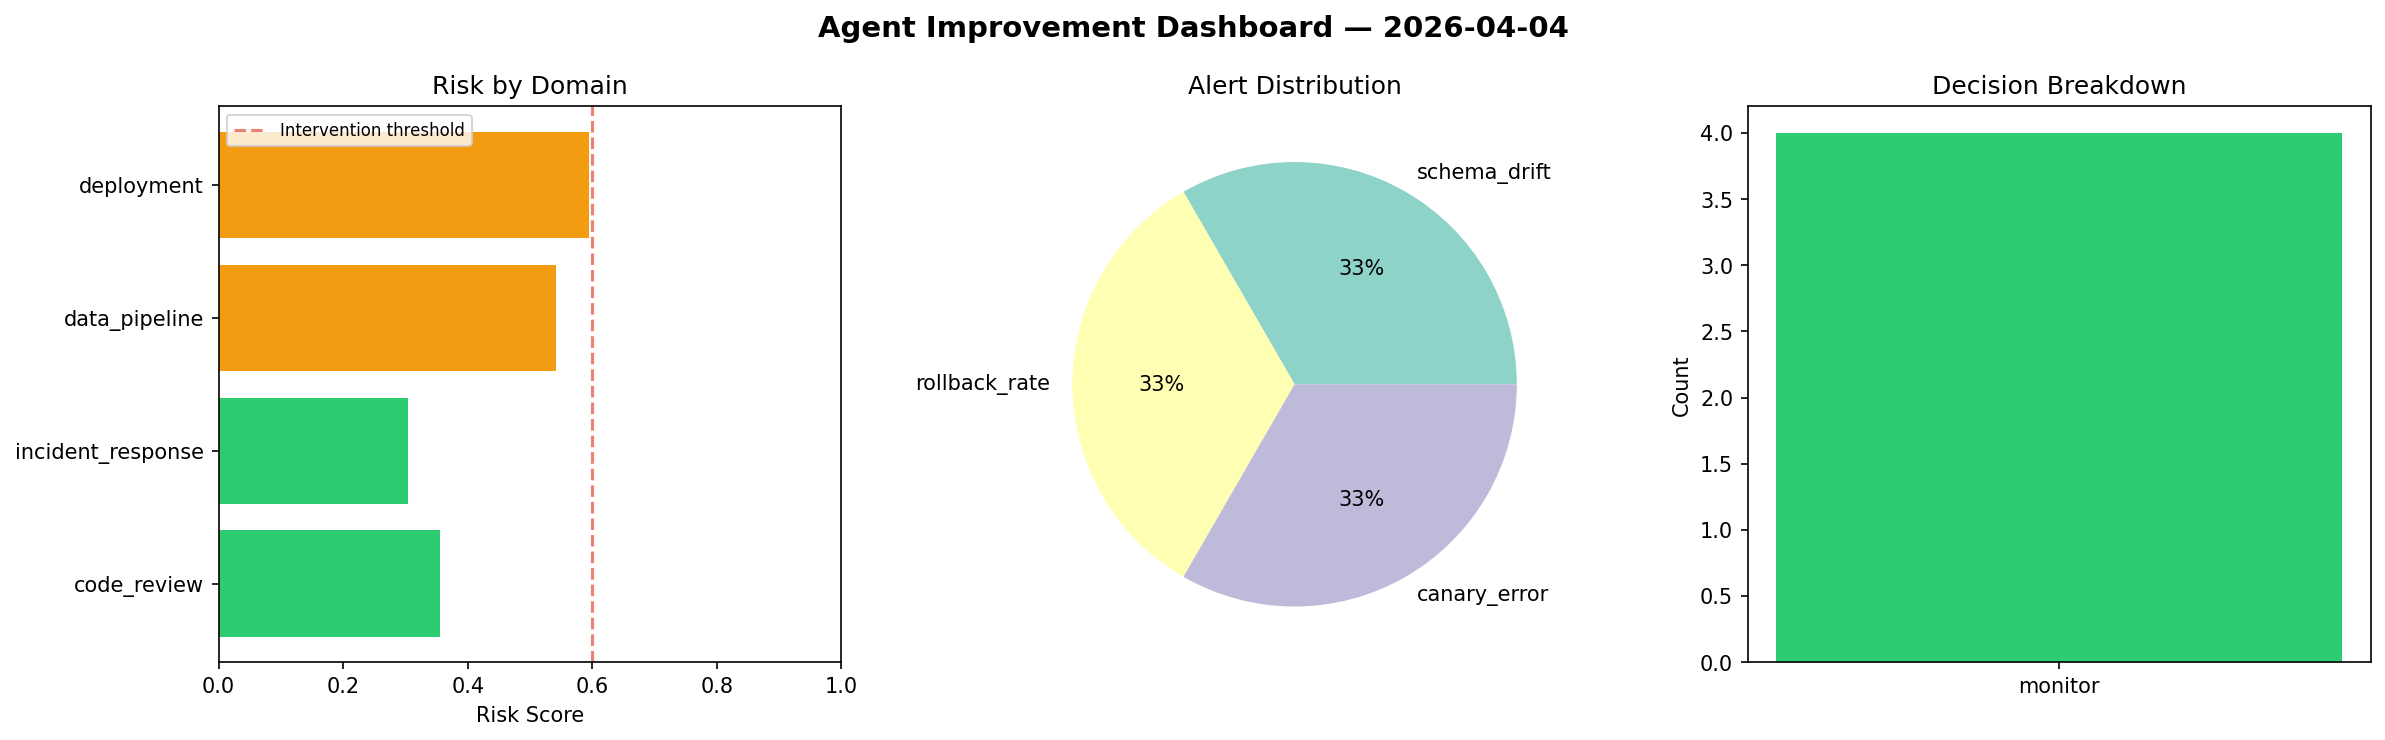
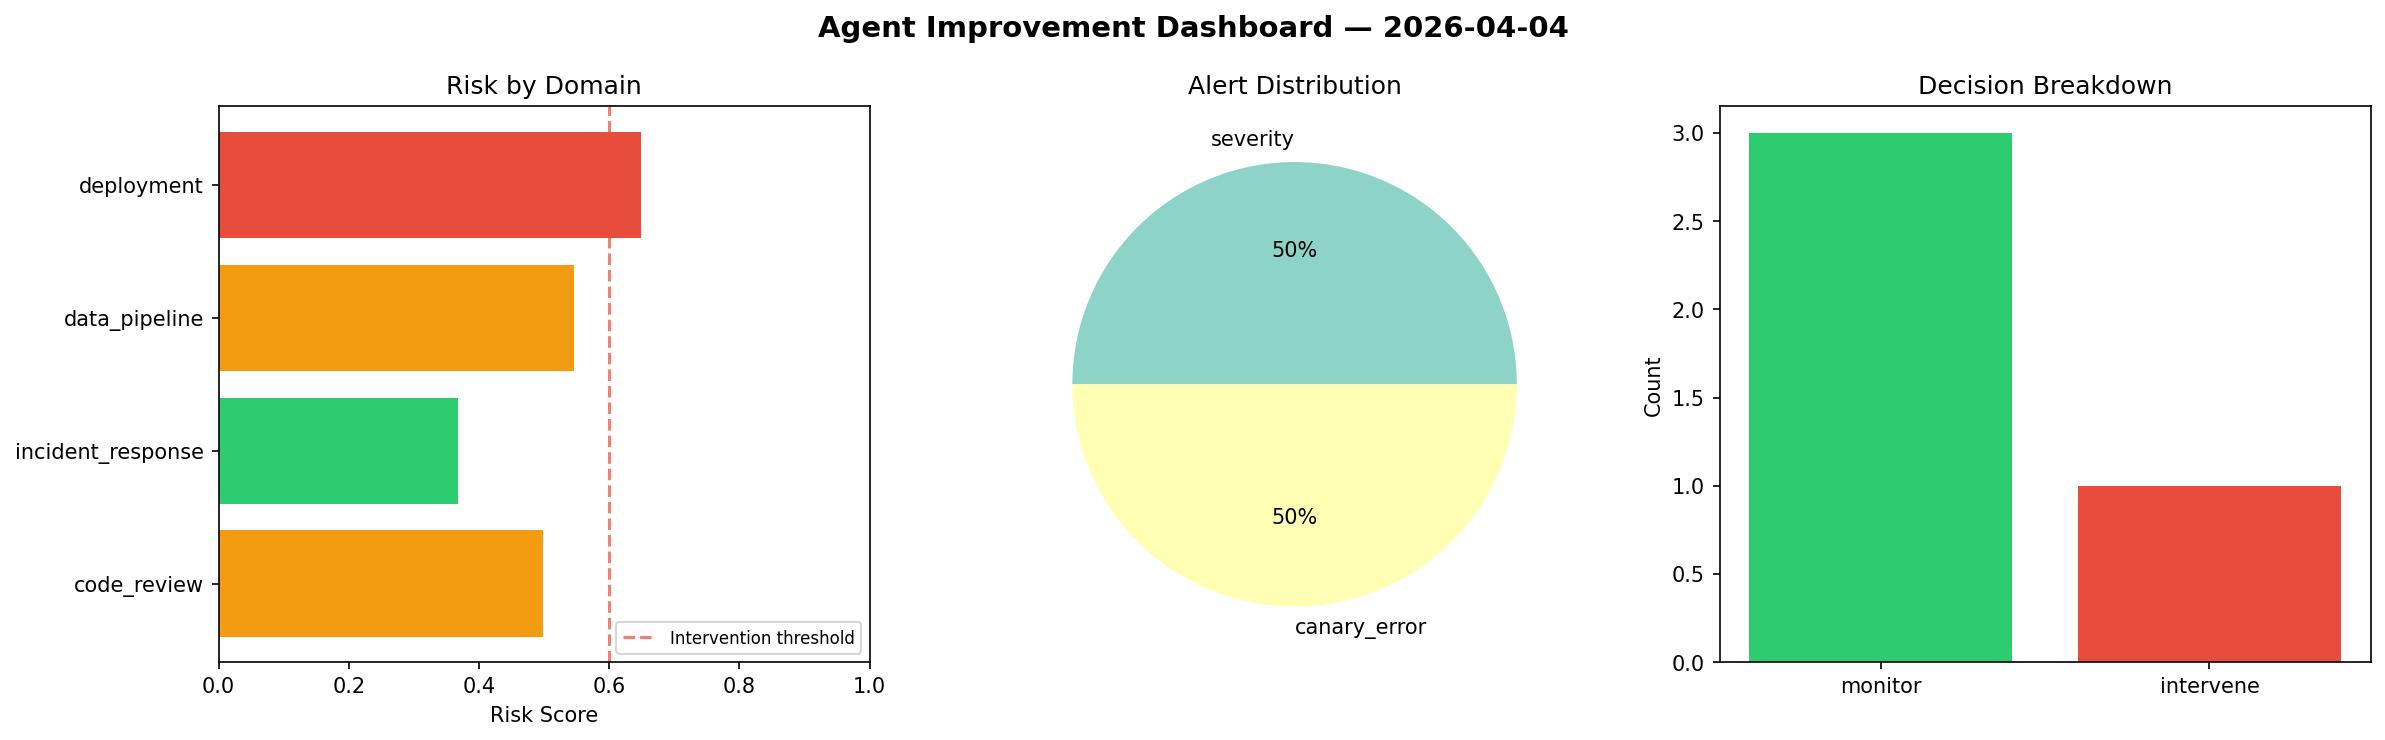
agent-improvement: daily cycle 2026-04-04T20:49

diff --git a/logs/2026-04-04.md b/logs/2026-04-04.md
@@ -1,6 +1,6 @@
 # Agent Improvement Report — 2026-04-04
 
-**Cycle ID:** `d2ad6b20` | **Avg Risk:** 0.4495 | **Interventions:** 0/4
+**Cycle ID:** `53321ec0` | **Avg Risk:** 0.5154 | **Interventions:** 1/4
 
 ![Dashboard](2026-04-04_dashboard.png)
 
@@ -10,18 +10,18 @@
 
 | Domain | Risk Score | Decision | Alerts |
 |--------|-----------|----------|--------|
-| code_review | 0.3563 | monitor | none |
-| incident_response | 0.3046 | monitor | none |
-| data_pipeline | 0.5416 | monitor | schema_drift |
-| deployment | 0.5953 | monitor | rollback_rate, canary_error |
+| code_review | 0.4989 | monitor | none |
+| incident_response | 0.368 | monitor | severity |
+| data_pipeline | 0.5464 | monitor | none |
+| deployment | 0.6484 | intervene | canary_error |
 
 ## Delta vs Yesterday
 
 | Domain | Today | Yesterday | Change |
 |--------|-------|-----------|--------|
-| code_review | 0.3563 | 0.4834 | 📉 -26.3% |
-| incident_response | 0.3046 | 0.4126 | 📉 -26.2% |
-| data_pipeline | 0.5416 | 0.6645 | 📉 -18.5% |
-| deployment | 0.5953 | 0.4245 | 📈 40.2% |
+| code_review | 0.4989 | 0.4834 | 📈 3.2% |
+| incident_response | 0.368 | 0.4126 | 📉 -10.8% |
+| data_pipeline | 0.5464 | 0.6645 | 📉 -17.8% |
+| deployment | 0.6484 | 0.4245 | 📈 52.7% |
 
 **Refinement:** `{'adjustment': 'tighten_thresholds', 'trend': 'degrading', 'window': 4}`
